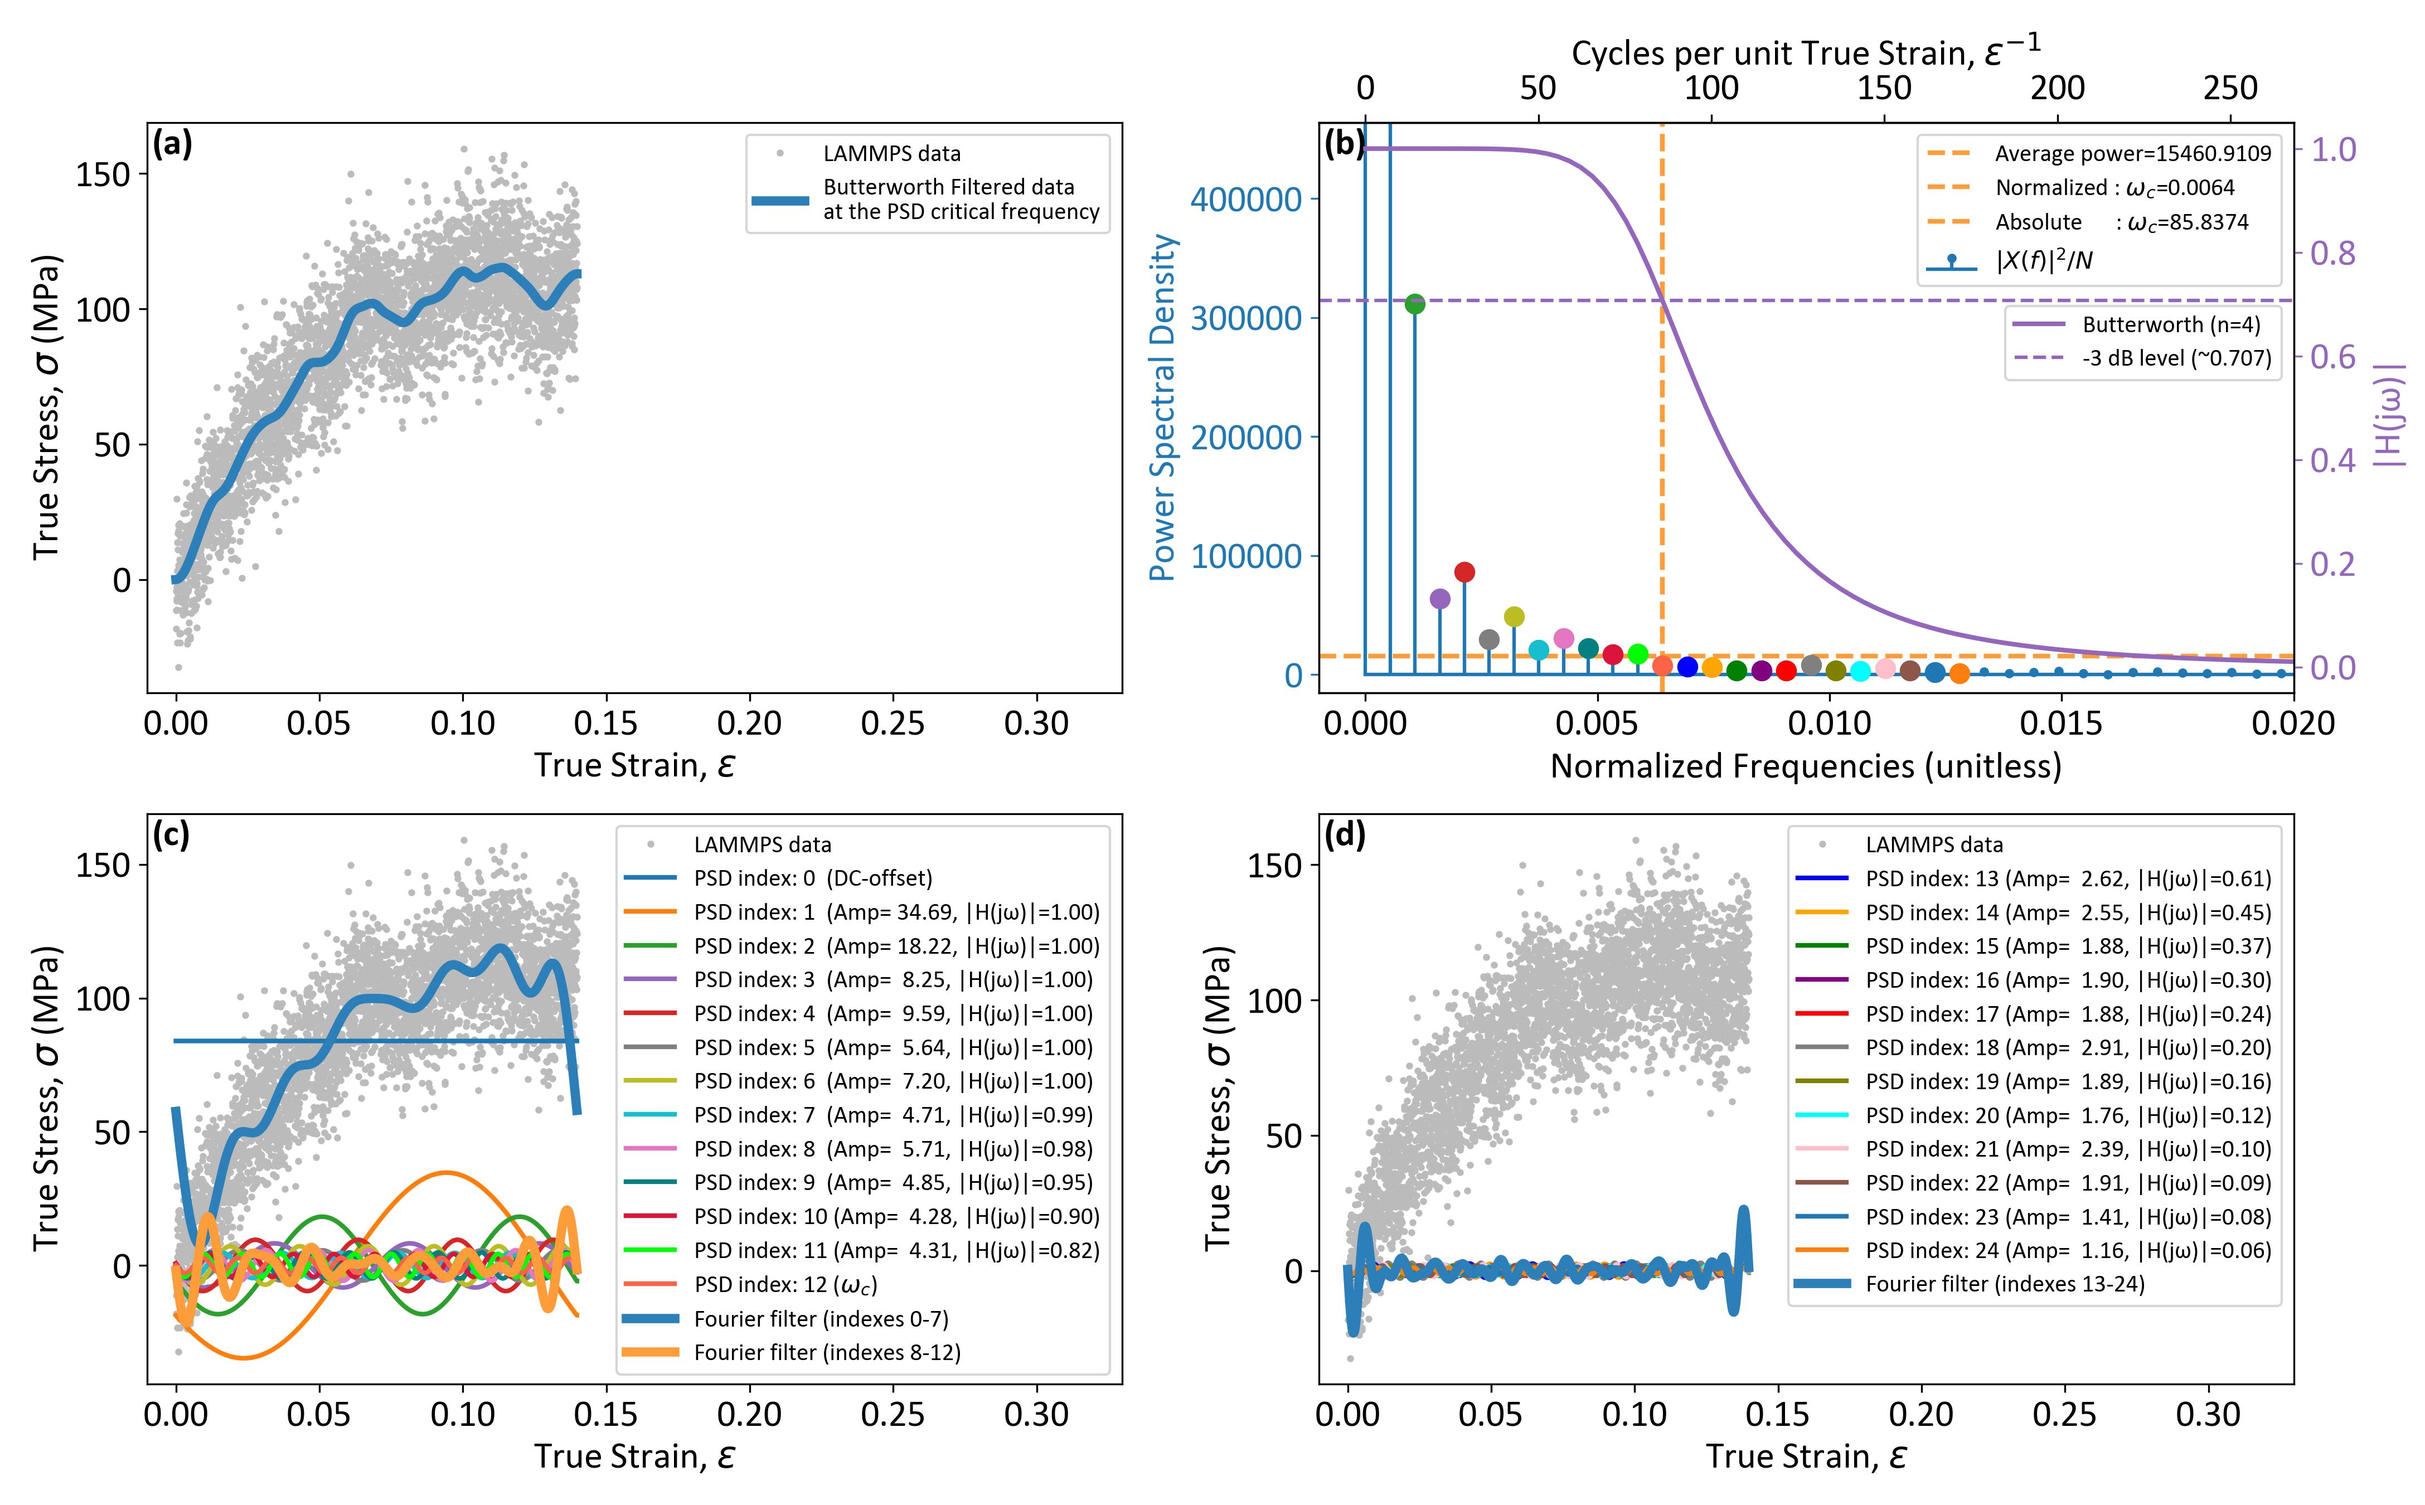
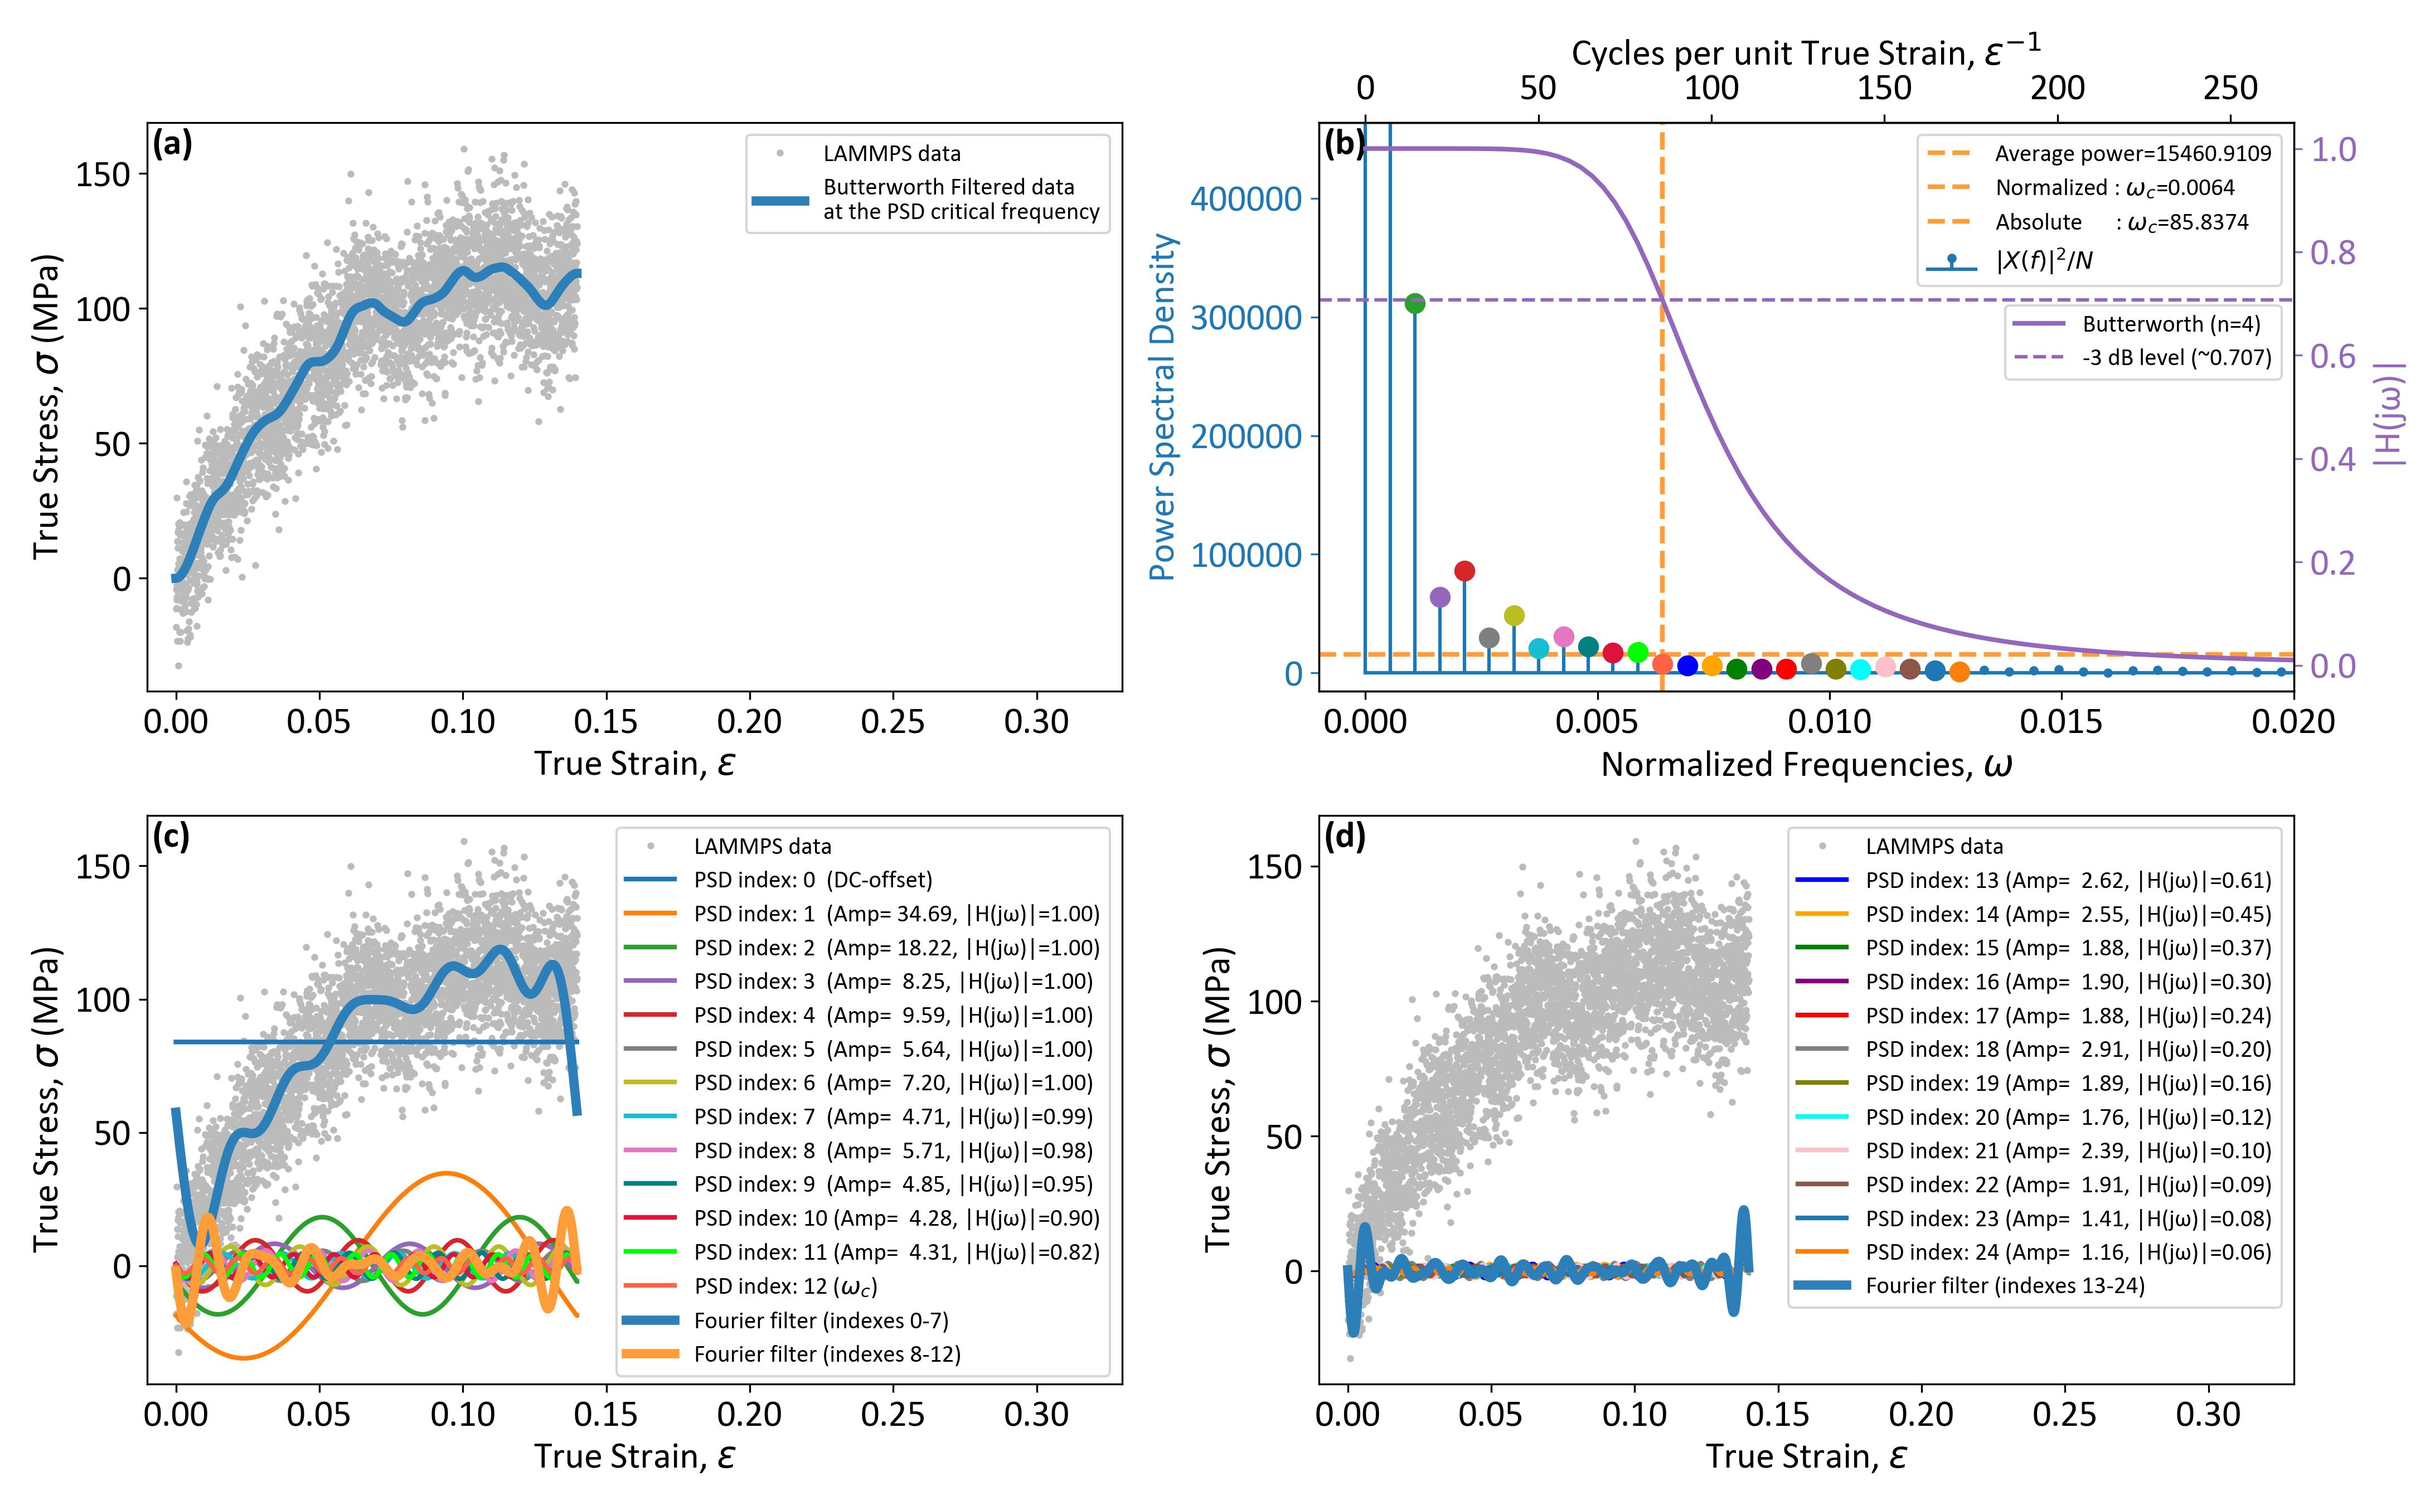
Adding Butterworth code

diff --git a/Fourier_breakdown.py b/Fourier_breakdown.py
@@ -54,14 +54,14 @@ import scipy as sp
 logfile = 'logfiles/tensile_1_EPON_862_pxld_86.8_replicate_4_FF_PCFF.log.lammps'
 strain_direction = 'x'
 
-logfile = 'logfiles/tensile_3_PBZ_pxld_87_replicate_5_FF_PCFF.log.lammps'
-strain_direction = 'z'
+# logfile = 'logfiles/tensile_3_PBZ_pxld_87_replicate_5_FF_PCFF.log.lammps'
+# strain_direction = 'z'
 
-logfile = 'logfiles/tensile_2_AroCy_L10_pxld_97_replicate_1_FF_PCFF.log.lammps'
-strain_direction = 'y'
+# logfile = 'logfiles/tensile_2_AroCy_L10_pxld_97_replicate_1_FF_PCFF.log.lammps'
+# strain_direction = 'y'
 
-logfile = 'logfiles/tensile_1_PEEK_pxld_90_replicate_3_FF_PCFF.log.lammps'
-strain_direction = 'x'
+# logfile = 'logfiles/tensile_1_PEEK_pxld_90_replicate_3_FF_PCFF.log.lammps'
+# strain_direction = 'x'
 
 
 # Set some column keywords to find sections in logfile with thermo data.
@@ -371,7 +371,7 @@ if __name__ == "__main__":
         ax2.axvline(wn_stress, color='#ff9d3aff', ls='--', lw=2, label='Normalized : {}$_c$={:.4f}'.format(r'$\omega$', wn_stress))
         ax2.axvline(wn_stress, color='#ff9d3aff', ls='--', lw=2, label='Absolute      : {}$_c$={:.4f}'.format(r'$\omega$', wn_stress*(0.5*sample_rate)))
         ax2.legend(loc='upper right', bbox_to_anchor=(1, 1), fancybox=True, ncol=1, fontsize=legend_fs_scale*fs)
-        ax2.set_xlabel('Normalized Frequencies (unitless)', fontsize=fs)
+        ax2.set_xlabel('Normalized Frequencies, {}'.format(r'$\omega$'), fontsize=fs)
         ax2.set_ylabel('Power Spectral Density', fontsize=fs, color=color)
         ax2.tick_params(axis='x', which='major', labelsize=fs, colors='black')
         ax2.tick_params(axis='y', which='major', labelsize=fs, colors=color)

diff --git a/example1.py b/example1.py
@@ -390,7 +390,7 @@ if __name__ == "__main__":
     
     if str(wn).startswith('op'):
         ax2.stem(wns_stress, psd_stress, linefmt='tab:blue', markerfmt='.', label='$|X(f)|^2/N$ for stress-strain')
-        ax2.plot(wn_stress, power_stress, 'o', ms=8, color='#ff9d3aff', label='Critical frequency\n({:.4f}, {:.4f})'.format(wn_stress, power_stress))
+        ax2.plot(wn_stress, power_stress, 'o', ms=8, color='#ff9d3aff', label='{}$_c$ ({:.4f}, {:.4f})'.format(r'$\omega$', wn_stress, power_stress))
         ax2.axhline(mean_stress_psd, color='#ff9d3aff', ls='--', lw=2, label='Average power={:.4f}'.format(mean_stress_psd))
         ax2.legend(loc='upper center', bbox_to_anchor=(0.5, 1.0), fancybox=True, ncol=1, fontsize=0.75*fs)
         ax2.set_xlabel('Normalized Frequencies (unitless)', fontsize=fs)
